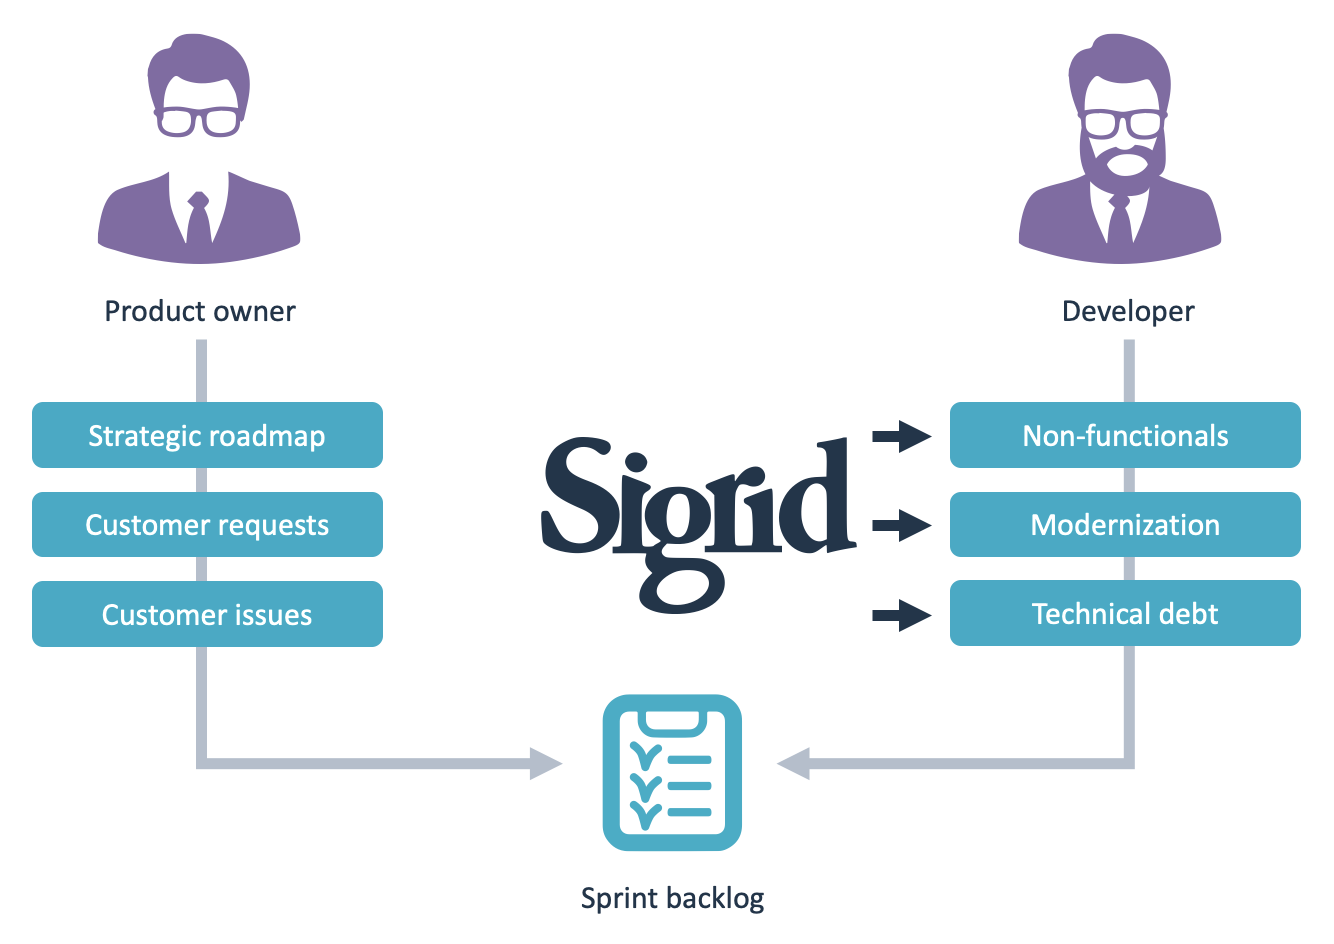
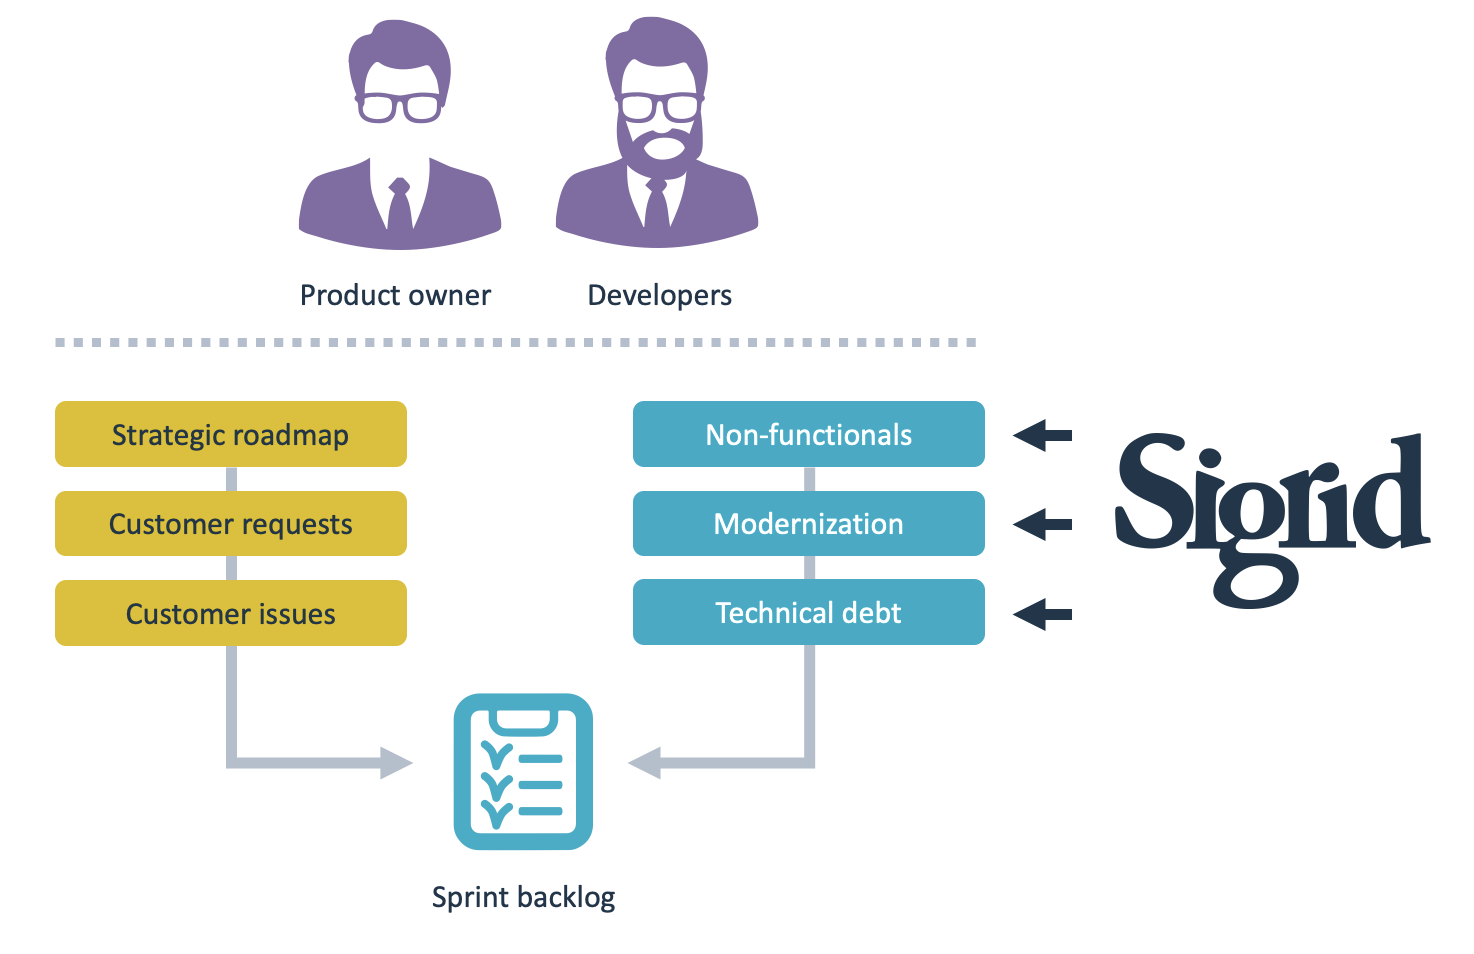
Address review comments.

Changed region(s): [[0.0, 0.0, 0.9835, 0.9831], [0.7684, 0.0307, 0.922, 0.2765], [0.0922, 0.0307, 0.1844, 0.1536]]

diff --git a/docs/workflows/agile-development-process.md b/docs/workflows/agile-development-process.md
@@ -1,6 +1,6 @@
 # Using Sigrid as part of an agile development process
 
-Many organizations using Sigrid are either already using an [agile development process](https://en.wikipedia.org/wiki/Agile_software_development), or are currently in the process of migrating towards such a way of working. Sigrid does not *force* you to use any specific development process, but we do believe working agile produces the best results.
+Sigrid supports all development process methodologies. That said, most organizations are either already using an [agile development process](https://en.wikipedia.org/wiki/Agile_software_development), or are currently in the process of migrating towards such a way of working. Working agile is therefore both the most mainstream and most desirable way of doing software development. 
 
 This page explains how Sigrid fits into a [Scrum](https://en.wikipedia.org/wiki/Scrum_(software_development) development process, which is the most popular and widely used version flavor of agile. Many of thes best practices outlined in this article can also be used when using other agile project management methodologies, such as [Kanban](https://en.wikipedia.org/wiki/Kanban).
 
@@ -18,11 +18,7 @@ These descriptions are clearly stereotypes. Though in many organizations there i
 
 <img src="../images/agile-vicious-cycle.png" width="500" />
 
-The problem with degrading technical quality is that it will eventually reduce stability. People make mistakes because the consequences of certain changes are not clear. Most of these mistakes will be caught by the development and test process, but this leads to additional time being spent on correcting the mistakes, reducing productivity. Moreover, some mistakes will inevitably *not* be caught, leading to issues in production.
-
-Once this has been going on for some period of time, people tend to get scared. They become over-defensive to avoid causing issues in production, reducing both speed and agility. This will cause technical debt to increase even more, as people will prefer workarounds rather than fixing problem structurally, as they are afraid making structural changes will break something.
-
-The only way to address this is by also making software quality agile. Ensuring quality and non-functionals should be part of every sprint and every ticket, so that it becomes a regular part of the process rather than an afterthought that needs to be managed independently. 
+The problem with degrading technical quality is that it will eventually reduce stability. People make mistakes because the consequences of certain changes are not clear. This will cost more time, as people spend more time on correcting the mistakes, or even to production issues when things *really* go wrong. The only way to avoid this vicious cycle of technical debt is by also making software quality agile, rather than something that needs to be managed independently from the normal process.
 
 ## Where does Sigrid fit in Scrum rituals?
 
@@ -36,17 +32,13 @@ This structure is effectively a series of feedback loops between people:
 - Each ticket is the responsibility of the people working on it. In nearly all organizations a ticket involves a minimum of two people: at least one person that implements the ticket, and at least one ticket that reviews it. 
 - While working on a ticket, the actual development work on the lowest level consists of a series of commits made by a developer.
 
-The red arrows in the diagram below depict how the different feedback loops and responsibilities are connected. 
-
-<img src="../images/agile-feedback-loops.png" width="500" />
-
 A sprint obviously consists of more than just implementing things. However, if you look at the sprint rituals you'll find they tend to connect to the same responsibilities:
 
 <img src="../images/agile-rituals.png" width="500" />
 
 So how can we use Sigrid during these sessions to ensure every sprint brings you closer to your software quality objectives?
 
-### Using Sigrid during refinement/planning
+### Using Sigrid during refinement and planning
 
 **Triage security and OSH findings**
 
@@ -76,7 +68,11 @@ Fixing technical debt can be done in two ways. The simplest form is to simply cl
 
 ### Using Sigrid during code review
 
-Sigrid CI allows you to use [feedback from Sigrid as part of your code review](../sigridci-integration/development-workflows.md). As shown in the picture with feedback loops, the pipeline is where you go from individual responsibility to shared responsibility, making it the logical place for both the code review and for Sigrid. Sigrid CI compares the new/code against your goal. This means the feedback is focused at making your code *good enough* (where "good enough" is defined by your shared goal), rather than trying to make your code perfect with zero findings. This also means you don't have to fix every single finding, which tends to be more motivating and pragmatic for the person receiving this feedback.
+Agile teams rely on [continuous integration](https://en.wikipedia.org/wiki/Continuous_integration) to facilitate their process. Every change is reviewed, and once this [code review](https://en.wikipedia.org/wiki/Code_review) has approved the change is is merged into the main/master branch. This makes the code review the process' main *agile quality gate*.
+
+During code reviews, the definition-of-done for software quality is often quite subjective and vague. Using [Sigrid's objectives](../capabilities/objectives.md) helps to agree on a shared goal within the team, and then relate code review feedback towards that goal.
+
+Sigrid also [integrates with your continuous integration pipeline](../sigridci-integration/development-workflows.md). Sigrid compares the new/code against your goal, meaning this feedback focuses on making your code *good enough* in regards to your team objectives. This avoids extensive discussions about minor issues. This in turn also means you don't have to fix *every* trivial finding, which tends to be more motivating and pragmatic for the person receiving this feedback.
 
 ### Using Sigrid during the sprint retrospective
 

diff --git a/docs/workflows/product-owner.md b/docs/workflows/product-owner.md
@@ -2,7 +2,7 @@
 
 As a product owner, you face a constant challenge to prioritize your sprint backlog. On one hand, you represent the voice of the customer and need to delivery as much customer value as possible, every single sprint. But on the other hand, you're also working with your team to ensure the non-functional aspects. If you *only* focus on adding more and more functionality at the expense of everything else, your productivity will eventually slow to a crawl as everyone gets increasingly overwhelmed by technical debt.
 
-<img src="../images/po-priorities.png" width="500" />
+<img src="../images/agile-prioritization.png" width="500" />
 
 Sigrid can help you balancing these aspects, by allowing you to define objectives for non-functionals (e.g. test code coverage, state of open-source libraries used, etc.), and then providing you with information that will help you to track progress towards those objectives as part of your process. 
 
@@ -20,3 +20,7 @@ Preventing technical debt will help you in the long run, but it won't solve the 
 ## Report progress towards your objectives
 
 [Objectives](../capabilities/objectives.md) are not only useful to the team, you can also use them to report progress to stakeholders outside of the team. To those people, concepts like software quality and non-functionals can be abstract, making it hard to explain *why* you are choosing to prioritize those issues. [Sigrid's dashboards](../capabilities/system-overview.md) help evaluate changes to the overall quality of the system. This allows you to determine whether you're on track to meet your objectives, or whether you need to pivot to prevent yourself from further trouble.
+
+## Learn more about using Sigrid in an agile development process
+
+Obviously, as a product owner you never work alone. Learn more about [how you can use Sigrid in your agile development process](agile-development-process.md), including concrete suggestions on how to use Sigrid's capabilities in your sprints and sessions. 
